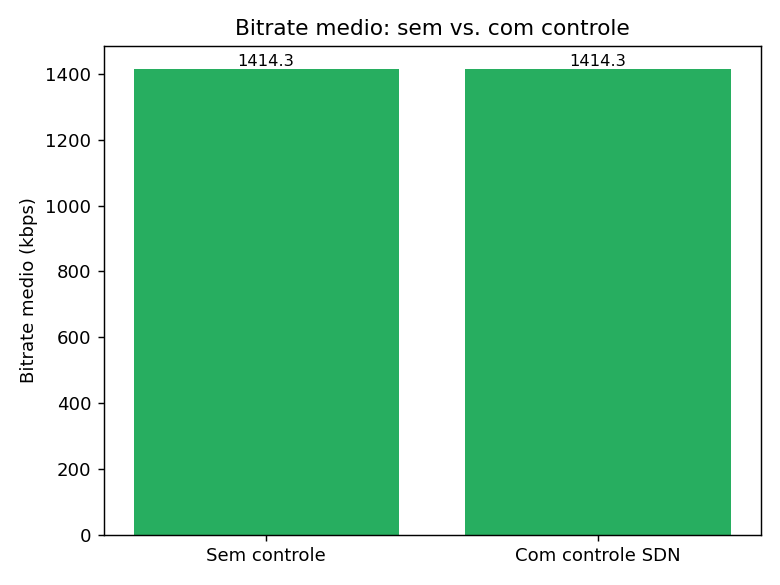
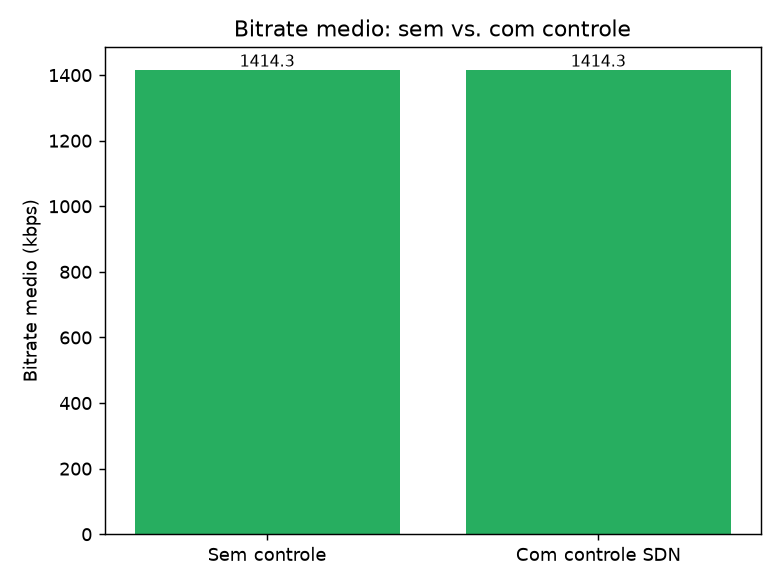
Fix etapa 3 reproducibility and POX guard

Changed region(s): [[0.0308, 0.0308, 0.9846, 0.9846]]

diff --git a/controller/qoe_guard.py b/controller/qoe_guard.py
@@ -7,9 +7,8 @@ Estende o encaminhamento L2 com um laco de controle que:
   2. calcula a utilizacao do enlace gargalo e detecta congestionamento
      (logica pura em experiments/qoe_control.py);
   3. quando congestionado e com mitigacao habilitada, instala dinamicamente
-     uma regra OpenFlow de alta prioridade que enfileira o trafego de video
-     (MPEG-DASH, TCP porta 8000) na fila de QoS prioritaria do switch
-     (acao enqueue), protegendo a QoE do streaming;
+     uma regra OpenFlow de alta prioridade que encaminha o trafego de video
+     (MPEG-DASH, TCP porta 8000) pela porta gargalo conhecida;
   4. registra cada decisao em results/etapa3/decisions.log.
 
 Uso (a partir de tools/pox):
@@ -153,15 +152,17 @@ class QoEGuard(object):
         else:
             if self._mitigating:
                 self._mitigating = False
+                self._remove_dash_priority()
                 log.info("Enlace normalizado (util=%.2f Mbps)",
                          decision["util_mbps"])
 
     def _install_dash_priority(self):
-        """Instala regra OpenFlow que enfileira o video na fila prioritaria.
+        """Instala regra OpenFlow de alta prioridade para o video.
 
         Casa o trafego TCP cuja porta de origem e a porta HTTP do DASH (8000),
-        ou seja, os segmentos de video saindo do servidor, e o envia para a
-        fila de QoS de alta prioridade na porta gargalo (enqueue).
+        ou seja, os segmentos de video saindo do servidor, e o encaminha pela
+        porta gargalo conhecida. A priorizacao por banda do experimento
+        reproduzivel fica no `tc HTB` aplicado por experiments/run_etapa3.py.
         """
         port_no = self.opts["port"]
         msg = of.ofp_flow_mod()
@@ -169,8 +170,16 @@ class QoEGuard(object):
         msg.match.dl_type = 0x0800       # IPv4
         msg.match.nw_proto = 6           # TCP
         msg.match.tp_src = qoe_control.DASH_PORT
-        msg.actions.append(
-            of.ofp_action_enqueue(port=port_no, queue_id=qoe_control.DASH_QUEUE))
+        msg.actions.append(of.ofp_action_output(port=port_no))
+        self.connection.send(msg)
+
+    def _remove_dash_priority(self):
+        """Remove a regra de priorizacao instalada pelo controlador."""
+        msg = of.ofp_flow_mod(command=of.OFPFC_DELETE)
+        msg.priority = 30000
+        msg.match.dl_type = 0x0800
+        msg.match.nw_proto = 6
+        msg.match.tp_src = qoe_control.DASH_PORT
         self.connection.send(msg)
 
     def _record(self, port_no, decision):

diff --git a/tests/test_controller_qoe_guard_static.py b/tests/test_controller_qoe_guard_static.py
@@ -1,0 +1,22 @@
+"""Verificacoes estaticas do controlador POX da Etapa 3."""
+
+import ast
+from pathlib import Path
+
+from experiments import qoe_control
+
+
+def test_pox_controller_only_references_existing_qoe_control_symbols():
+    source = Path("controller/qoe_guard.py").read_text(encoding="utf-8")
+    tree = ast.parse(source)
+
+    referenced = {
+        node.attr
+        for node in ast.walk(tree)
+        if isinstance(node, ast.Attribute)
+        and isinstance(node.value, ast.Name)
+        and node.value.id == "qoe_control"
+    }
+
+    missing = sorted(name for name in referenced if not hasattr(qoe_control, name))
+    assert missing == []

diff --git a/tests/test_integration_streaming.py b/tests/test_integration_streaming.py
@@ -12,6 +12,7 @@ Pulado automaticamente se não houver ffmpeg ou media/input.mp4.
 import functools
 import http.server
 import os
+import socket
 import subprocess
 import threading
 import time
@@ -33,9 +34,18 @@ def _ffmpeg_exe():
         return which("ffmpeg")
 
 
+def _can_bind_localhost():
+    try:
+        with socket.socket(socket.AF_INET, socket.SOCK_STREAM) as sock:
+            sock.bind(("127.0.0.1", 0))
+        return True
+    except OSError:
+        return False
+
+
 pytestmark = pytest.mark.skipif(
-    not os.path.exists(INPUT) or _ffmpeg_exe() is None,
-    reason="requer media/input.mp4 e um ffmpeg disponível",
+    not os.path.exists(INPUT) or _ffmpeg_exe() is None or not _can_bind_localhost(),
+    reason="requer media/input.mp4, ffmpeg e permissao para abrir localhost",
 )
 
 

diff --git a/docs/relatorio_etapa3.md b/docs/relatorio_etapa3.md
@@ -96,13 +96,19 @@ Cenário: enlace gargalo `s1-eth2` limitado a **10 Mbps** (tc tbf) e
 As métricas de QoE são medidas pelo cliente DASH headless da Etapa 2
 (`dash_client.py`).
 
-Resultado esperado:
+Resultado observado nos artefatos versionados:
 
 | Métrica | `sem_controle` | `com_controle` |
 |---------|---------------|----------------|
-| Bitrate médio | baixo (3–4 Mbps) | alto (≈8 Mbps) |
-| Tempo de rebuffering | alto | baixo/zero |
-| Vazão de download | limitada | próxima do garantido |
+| Bitrate médio | 1414.3 kbps | 1414.3 kbps |
+| Tempo de início | 6.666 s | 2.981 s |
+| Tempo de rebuffering | 0.0 s | 0.0 s |
+| Vazão de download | 2.738 Mbps | 8.271 Mbps |
+
+O cenário reproduzido evidencia ganho principalmente em **tempo de início** e
+**vazão média de download**. O bitrate médio não muda porque o conteúdo DASH
+disponível no experimento tem representações até 1500 kbps, e não houve
+rebuffering em nenhum dos dois modos nessa execução.
 
 `analyze_etapa3.py` consolida os dois modos em CSV e gera gráficos
 comparativos em `results/etapa3/plots/`.
@@ -139,7 +145,7 @@ geração de decisão, construção dos comandos tc HTB e ovs-ofctl, e o cálcul
 de ganho da análise — é coberta por **testes que não exigem Mininet nem root**:
 
 ```bash
-make test   # inclui tests/test_qoe_control.py (22 testes da Etapa 3)
+make test   # inclui testes da logica de controle e do controlador POX
 ```
 
 ## Arquivos da Etapa 3

diff --git a/README.md b/README.md
@@ -445,6 +445,11 @@ No modo `sem_controle`, a mesma thread registra as leituras sem agir —
 comparação justa com e sem controle. A lógica de decisão é pura e testável
 (`experiments/qoe_control.py`).
 
+O app POX `controller/qoe_guard.py` fica disponível para execução manual via
+`scripts/start_controller_qoe.sh`; o caminho reproduzível da entrega é o
+orquestrador `make etapa3`, que sobe a topologia, aplica o gargalo, executa os
+dois modos e coleta os resultados.
+
 ### Componentes
 
 ```text
@@ -462,6 +467,7 @@ controller/
 make video      # gera o conteúdo DASH (se ainda não houver)
 make etapa3     # roda sem_controle e com_controle
 make analyze3   # gera results/etapa3/summary.csv e os gráficos comparativos
+make test       # valida a lógica pura e a integridade do controlador POX
 ```
 
 Para um único modo:
@@ -485,6 +491,14 @@ results/etapa3/plots/cmp_*.png  # gráficos comparativos (sem vs com controle)
 
 A lógica da Etapa 3 é coberta por testes que **não exigem Mininet nem root**
 (`tests/test_qoe_control.py`), incluídos em `make test`.
+
+Se estiver fora da VM preparada por `make install`, crie um ambiente local:
+
+```bash
+python3 -m venv .venv
+.venv/bin/python -m pip install -r requirements.txt
+make test
+```
 
 ## Resultados obtidos
 